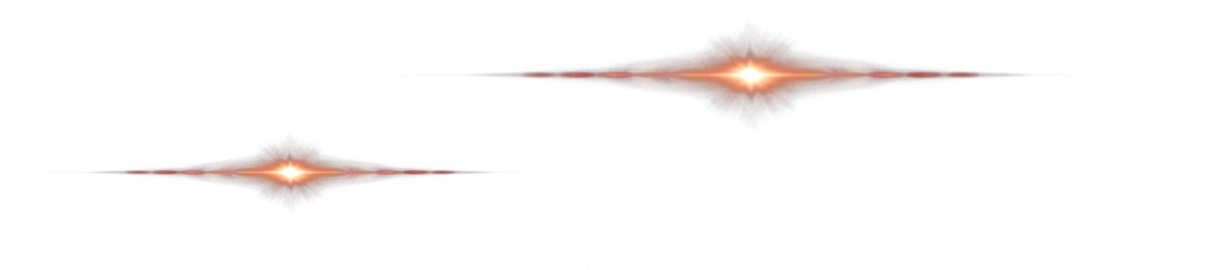
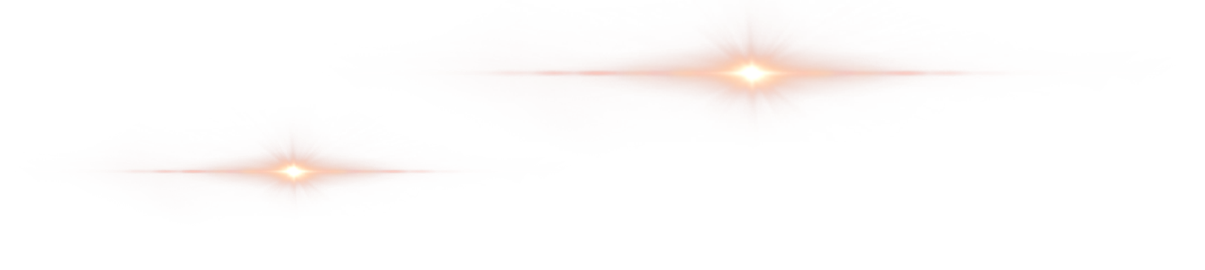
update light pic & birthday

Changed region(s): [[0.3992, 0.1481, 0.8598, 0.4148], [0.0921, 0.5333, 0.3992, 0.7407]]

diff --git a/src/views/Birthday.vue b/src/views/Birthday.vue
@@ -35,8 +35,8 @@ export default {
     props: [],
     data: function () {
         return {
-            zip: "123456",
-            age: 26,
+            zip: "190929",
+            age: 2,
         };
     },
     computed: {
@@ -52,12 +52,10 @@ export default {
     },
     methods: {},
     mounted: function () {
-        // let test = Base64.encode('1987-05-12@34')   //MTk4Ny0wNS0xMkAzNA==
-        let code = this.$route.query.code && Base64.decode(this.$route.query.code) || Base64.decode('MTk4Ny0wNS0xMkAzNA==')
-        let birth = code.split('@')[0]
-        let [year,month,date] = birth.split('-')
-        this.age = code.split('@')[1] || 1
-        this.zip = year.slice(-2,) + month + date
+        // let test = Base64.encode('2019092902')   //MjAxOTA5MjkwMg==
+        let code = this.$route.query.code && Base64.decode(this.$route.query.code) || Base64.decode('MjAxOTA5MjkwMg==')
+        this.age = code.slice(-2) || 1
+        this.zip = code.slice(2,8)
     },
     components: {},
 };

diff --git a/src/assets/css/birthday.less b/src/assets/css/birthday.less
@@ -8,6 +8,7 @@
     // background: url("@{birthday}preview.png") no-repeat center top;
     // padding: 162px;
     .mt(@header-height);
+    min-width: 1520px;
 }
 .m-birthday-video{
     width: 100%;
@@ -98,7 +99,7 @@
         max-width: none;
     }
     .u-light{
-        .pa;.rt(0,322px);
+        .pa;.rt(20px,330px);
     }
 }
 
